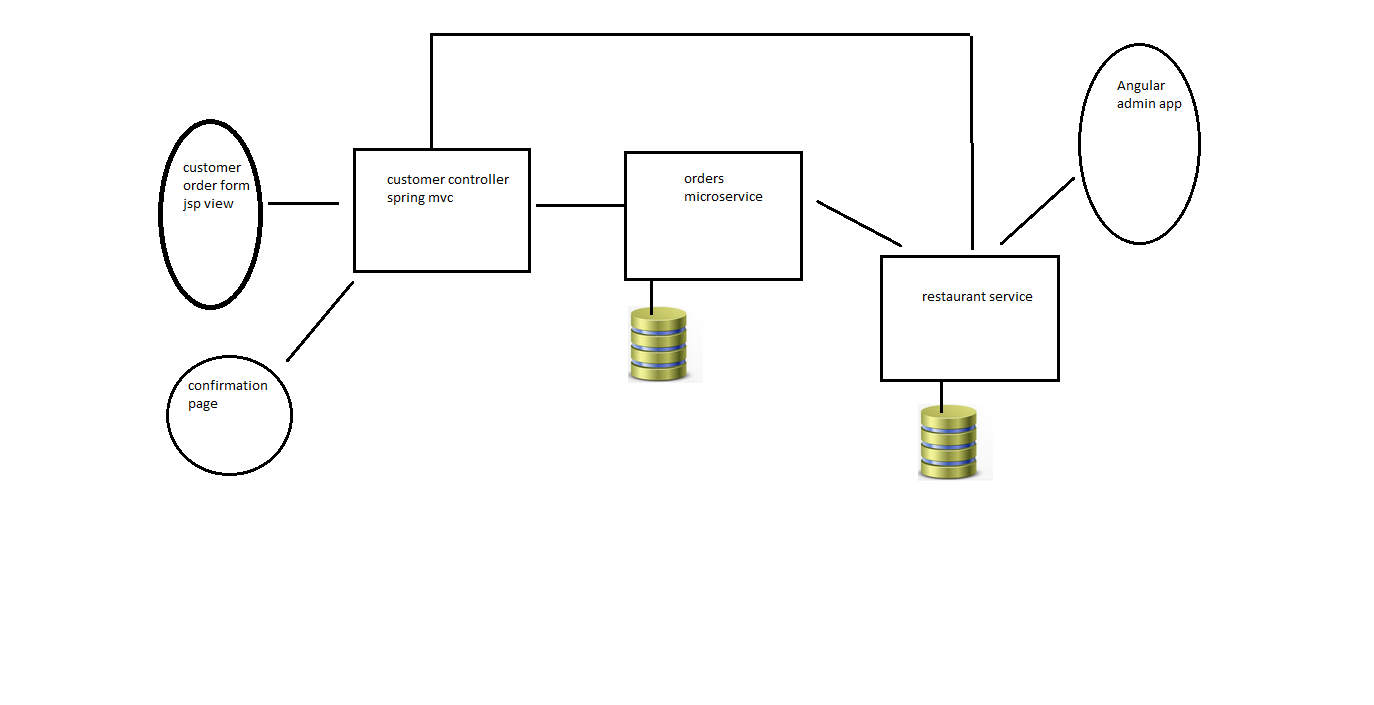
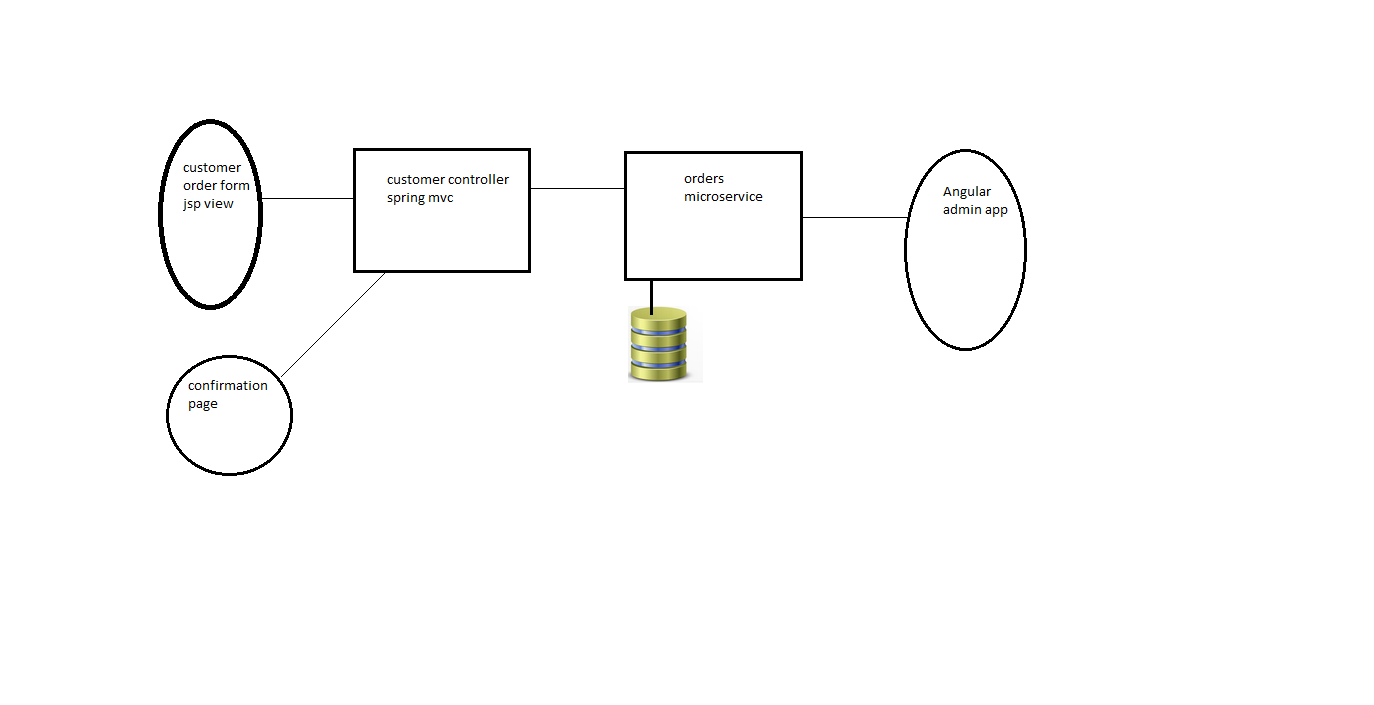
daily push

diff --git a/Final Project/order_microservice/src/main/java/com/genspark/order_service/controller/Order_Controller.java b/Final Project/order_microservice/src/main/java/com/genspark/order_service/controller/Order_Controller.java
@@ -9,6 +9,7 @@ import org.springframework.web.bind.annotation.*;
 import java.util.List;
 
 @RestController
+@CrossOrigin(origins = "http://localhost:4200")
 public class Order_Controller {
     @Autowired
     private OrderServiceInt orderService;
@@ -49,6 +50,10 @@ public class Order_Controller {
     @GetMapping("/orders")
     public List<Order> getOrders(){
         return orderService.getOrders();
+    }
+    @PostMapping("/orders")
+    void addUser(@RequestBody Order order) {
+        orderService.save(order);
     }
 
     @GetMapping("/menu")

diff --git a/Final Project/order_microservice/src/main/java/com/genspark/order_service/Service/OrderService.java b/Final Project/order_microservice/src/main/java/com/genspark/order_service/Service/OrderService.java
@@ -70,5 +70,10 @@ public class OrderService implements OrderServiceInt{
         return itemDao.findAll();
     }
 
+    @Override
+    public void save(Order order) {
+         orderDao.save(order);
+    }
+
 
 }

diff --git a/Final Project/order_microservice/src/main/java/com/genspark/order_service/Service/OrderServiceInt.java b/Final Project/order_microservice/src/main/java/com/genspark/order_service/Service/OrderServiceInt.java
@@ -17,4 +17,6 @@ public interface OrderServiceInt {
     List<Order> getOrders();
 
     List<MenuItem> getMenuItems();
+
+    void save(Order order);
 }
